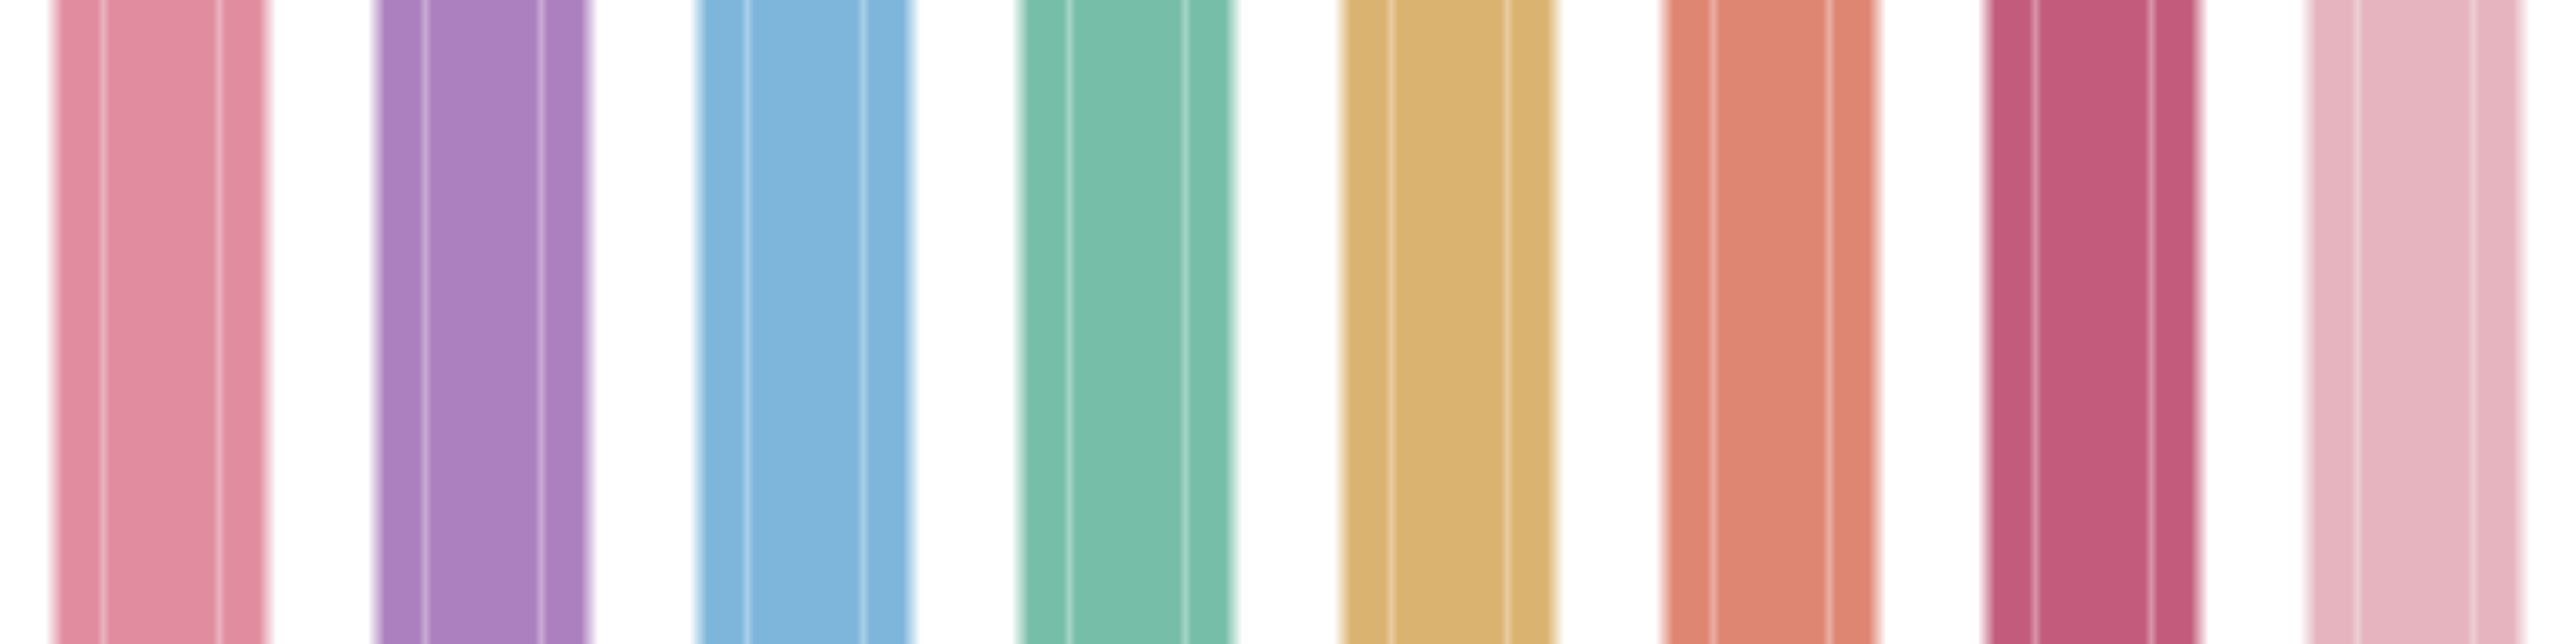
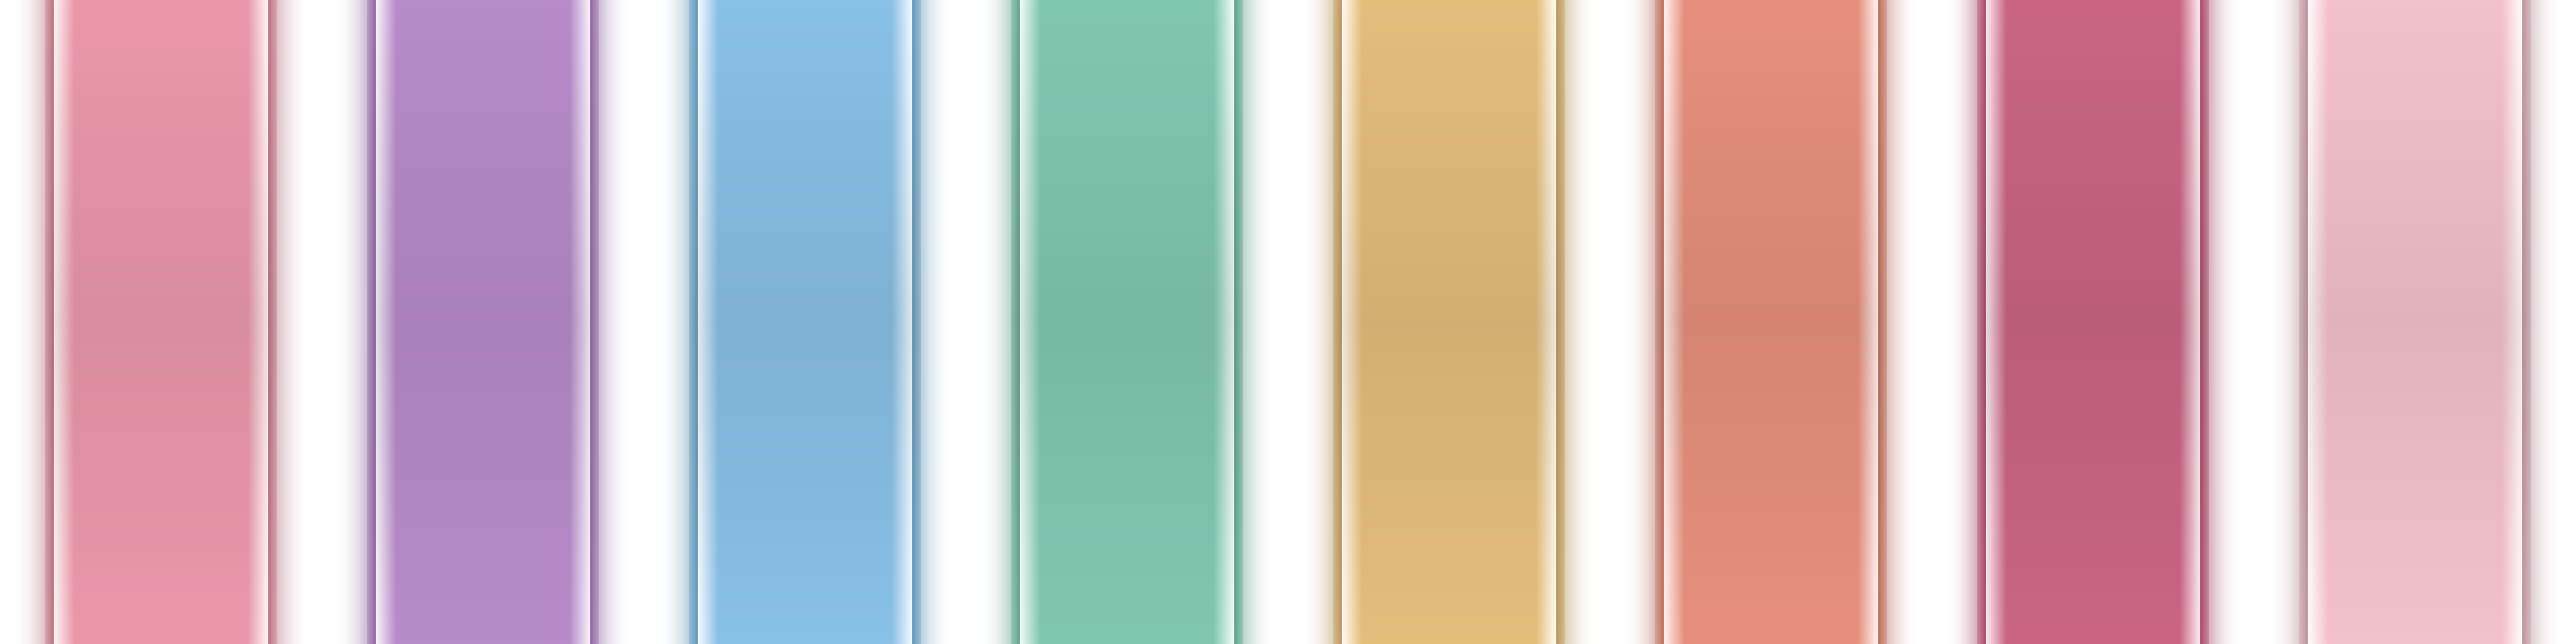
fix: 홀드몸통 32.png 레퍼런스 (네온관 유리 pill) 재작성
연장되는 느낌 — rim(edge saturated dark) + inner white highlight + core gradient + 외곽 halo.
기존 flat + 내부 25/75 스트라이프 → 유리관 구조로 재설계.

diff --git a/scripts/generate_hold_body_from_notes.py b/scripts/generate_hold_body_from_notes.py
@@ -1,12 +1,13 @@
 # -*- coding: utf-8 -*-
 """
-홀드몸통 — 31.png 레퍼런스: saturated 색 pill + 내부 세로 하이라이트 줄 (캡슐 glass).
+홀드몸통 — 32.png 레퍼런스: 네온관 유리 pill 느낌.
 
-각 셀:
-- 세로 rounded pill (캡슐 모양, 상/하 solid)
-- 꽃 색을 saturated 버전으로 변환 (채도 boost, 명도 다운)
-- 내부에 희미한 세로 하이라이트 줄 2개 (좌우 25/75% 위치, pill 의 유리 반사 느낌)
-- 좌우 fade (rounded edge)
+각 400×800 셀:
+- 외곽 halo: pill 바깥 soft bloom (rim 색, quadratic fade)
+- rim: 가장자리 ~3% 구간에 saturated+darkened 색 (네온관 유리 모서리)
+- inner highlight: rim 바로 안쪽 ~7% 구간에 cream/white blend (유리 반사광)
+- core: flower 색 살짝 채도 up, 세로 subtle gradient (중앙 살짝 어둡)
+- top/bottom: flat — hold stretch 대응 (둥근 cap 은 head/tail 담당)
 
 결과: 3200×800 RGBA.
 """
@@ -23,22 +24,17 @@ NOTE_CELL_W = 400
 BODY_CELL_W, BODY_CELL_H = 400, 800
 N_CELLS = 8
 
-PILL_W_RATIO = 0.72   # pill 폭 = 셀 폭의 72%
-EDGE_FADE_PX = 22     # 좌우 rounded fade 거리
+PILL_W_RATIO   = 0.72   # pill 폭 = 셀 폭의 72% (외곽 halo 여유 14%)
+GLOW_OUT_PX    = 40     # pill 밖 halo 거리
+RIM_W_RATIO    = 0.04   # rim 두께 (pill 폭 대비, 양쪽)
+HL_W_RATIO     = 0.09   # 안쪽 흰 하이라이트 두께
 
-# 내부 하이라이트 줄 (31.png 처럼 2개)
-STRIPE_POSITIONS = [0.25, 0.75]  # pill 폭 대비 위치 (좌 25%, 우 75%)
-STRIPE_W_RATIO = 0.06            # 각 줄 폭 (pill 폭 대비)
-STRIPE_ALPHA = 90                # 하이라이트 alpha
-
-def saturate(r, g, b, factor=1.3, darken=0.9):
-    """RGB 채도 증가 + 살짝 darken → 탁한 원색 느낌"""
-    # HSV 변환 없이 간단 saturation: (c - gray) * factor + gray
-    gray = (r + g + b) / 3
-    r2 = int(np.clip((r - gray) * factor + gray, 0, 255) * darken)
-    g2 = int(np.clip((g - gray) * factor + gray, 0, 255) * darken)
-    b2 = int(np.clip((b - gray) * factor + gray, 0, 255) * darken)
-    return (r2, g2, b2)
+def saturate(r, g, b, factor=1.0, scale=1.0):
+    gray = (r + g + b) / 3.0
+    r2 = int(np.clip((r - gray) * factor + gray, 0, 255) * scale)
+    g2 = int(np.clip((g - gray) * factor + gray, 0, 255) * scale)
+    b2 = int(np.clip((b - gray) * factor + gray, 0, 255) * scale)
+    return (max(0,min(255,r2)), max(0,min(255,g2)), max(0,min(255,b2)))
 
 src = Image.open(SRC_NOTE).convert('RGBA')
 src_a = np.array(src)
@@ -46,7 +42,6 @@ src_a = np.array(src)
 canvas = np.zeros((BODY_CELL_H, BODY_CELL_W * N_CELLS, 4), dtype=np.uint8)
 
 for i in range(N_CELLS):
-    # 각 노트 셀에서 꽃 중심 컬러
     note_cell = src_a[:, i*NOTE_CELL_W:(i+1)*NOTE_CELL_W]
     alpha = note_cell[:, :, 3]
     rgb = note_cell[:, :, :3].astype(np.int16)
@@ -56,44 +51,70 @@ for i in range(N_CELLS):
     fr = int(note_cell[:, :, 0][mask].mean())
     fg = int(note_cell[:, :, 1][mask].mean())
     fb = int(note_cell[:, :, 2][mask].mean())
-    # saturated 버전
-    pr, pg, pb = saturate(fr, fg, fb, factor=1.3, darken=0.9)
+
+    # 코어 — flower 색 살짝 채도 up (+ darken 소량)
+    cr, cg, cb = saturate(fr, fg, fb, factor=1.20, scale=0.92)
+    # rim — 네온관 유리 모서리: saturated + 살짝 darken (진한 색)
+    rmr, rmg, rmb = saturate(fr, fg, fb, factor=1.5, scale=0.72)
 
     cell_x0 = i * BODY_CELL_W
     pill_w = int(BODY_CELL_W * PILL_W_RATIO)
     pill_x0 = cell_x0 + (BODY_CELL_W - pill_w) // 2
+    pill_x1 = pill_x0 + pill_w
+
+    rim_w = max(3, int(pill_w * RIM_W_RATIO))
+    hl_w  = max(5, int(pill_w * HL_W_RATIO))
 
     for py in range(BODY_CELL_H):
-        for px_local in range(pill_w):
-            px = pill_x0 + px_local
-            # 좌우 fade
-            edge_dist = min(px_local, pill_w - 1 - px_local)
-            if edge_dist < EDGE_FADE_PX:
-                edge_alpha = int(255 * edge_dist / EDGE_FADE_PX)
+        v = py / (BODY_CELL_H - 1)
+        # 세로 subtle gradient — 유리관 반사: 중앙(0.5) 약간 어둡, 상/하 살짝 밝
+        vgrad = 0.96 + 0.08 * abs(v - 0.5) * 2  # 0.96..1.04
+
+        # pill 안쪽 영역
+        for px in range(pill_x0, pill_x1):
+            edge_dist = min(px - pill_x0, pill_x1 - 1 - px)
+            if edge_dist < rim_w:
+                # rim — saturated 진한 색
+                t = edge_dist / rim_w  # 0(edge) → 1(rim inner)
+                r = int(min(255, rmr * vgrad))
+                g = int(min(255, rmg * vgrad))
+                b = int(min(255, rmb * vgrad))
+                # edge 바깥 쪽은 약간 soft 해서 anti-alias
+                a = int(255 * (0.65 + 0.35 * t))
+            elif edge_dist < rim_w + hl_w:
+                # inner highlight — rim 직후 cream/white blend
+                t = (edge_dist - rim_w) / hl_w  # 0(rim쪽) → 1(core쪽)
+                hl = (1 - t)  # rim 쪽 강, core 쪽 약
+                # 피크 90% white + 10% core
+                peak_r = int(cr * 0.18 + 255 * 0.82)
+                peak_g = int(cg * 0.18 + 255 * 0.82)
+                peak_b = int(cb * 0.18 + 255 * 0.82)
+                r = int(cr * (1-hl) + peak_r * hl)
+                g = int(cg * (1-hl) + peak_g * hl)
+                b = int(cb * (1-hl) + peak_b * hl)
+                r = min(255, int(r * vgrad))
+                g = min(255, int(g * vgrad))
+                b = min(255, int(b * vgrad))
+                a = 255
             else:
-                edge_alpha = 255
-            # 기본 fill
-            canvas[py, px] = [pr, pg, pb, edge_alpha]
+                # core — flower 색 saturated
+                r = min(255, int(cr * vgrad))
+                g = min(255, int(cg * vgrad))
+                b = min(255, int(cb * vgrad))
+                a = 255
+            canvas[py, px] = [r, g, b, a]
 
-        # 내부 세로 하이라이트 줄 2개 (좌 25%, 우 75%)
-        for stripe_pos in STRIPE_POSITIONS:
-            sx_center = pill_x0 + int(pill_w * stripe_pos)
-            stripe_w = max(2, int(pill_w * STRIPE_W_RATIO))
-            for dx in range(-stripe_w//2, stripe_w//2 + 1):
-                px = sx_center + dx
-                if pill_x0 <= px < pill_x0 + pill_w:
-                    # 줄 중앙에서 멀수록 흐릿
-                    dist = abs(dx) / (stripe_w / 2 if stripe_w > 1 else 1)
-                    hl_a = int(STRIPE_ALPHA * (1 - dist))
-                    cr, cg, cb, ca = canvas[py, px]
-                    if ca > 0 and hl_a > 0:
-                        blend = hl_a / 255.0
-                        # white 반투명 블렌드
-                        canvas[py, px, 0] = int(cr * (1 - blend) + 255 * blend)
-                        canvas[py, px, 1] = int(cg * (1 - blend) + 255 * blend)
-                        canvas[py, px, 2] = int(cb * (1 - blend) + 255 * blend)
+        # 외곽 halo — pill 양쪽 바깥
+        for side in (-1, 1):
+            for d in range(1, GLOW_OUT_PX + 1):
+                px = (pill_x0 - d) if side < 0 else (pill_x1 - 1 + d)
+                if px < 0 or px >= canvas.shape[1]: continue
+                t = 1 - (d / GLOW_OUT_PX)  # 1(pill 인접) → 0(멀리)
+                a = int(115 * t * t)        # quadratic ease-out
+                if a <= 0: continue
+                canvas[py, px] = [rmr, rmg, rmb, a]
 
-    print(f'[{i+1}] flower=#{fr:02x}{fg:02x}{fb:02x} → pill=#{pr:02x}{pg:02x}{pb:02x}, {pill_w}×{BODY_CELL_H}')
+    print(f'[{i+1}] flower=#{fr:02x}{fg:02x}{fb:02x} core=#{cr:02x}{cg:02x}{cb:02x} rim=#{rmr:02x}{rmg:02x}{rmb:02x}')
 
 Image.fromarray(canvas).save(OUT_BODY)
-print(f'\n✓ {OUT_BODY} (3200×800)')
+print(f'\n✓ {OUT_BODY} ({canvas.shape[1]}x{canvas.shape[0]})')
